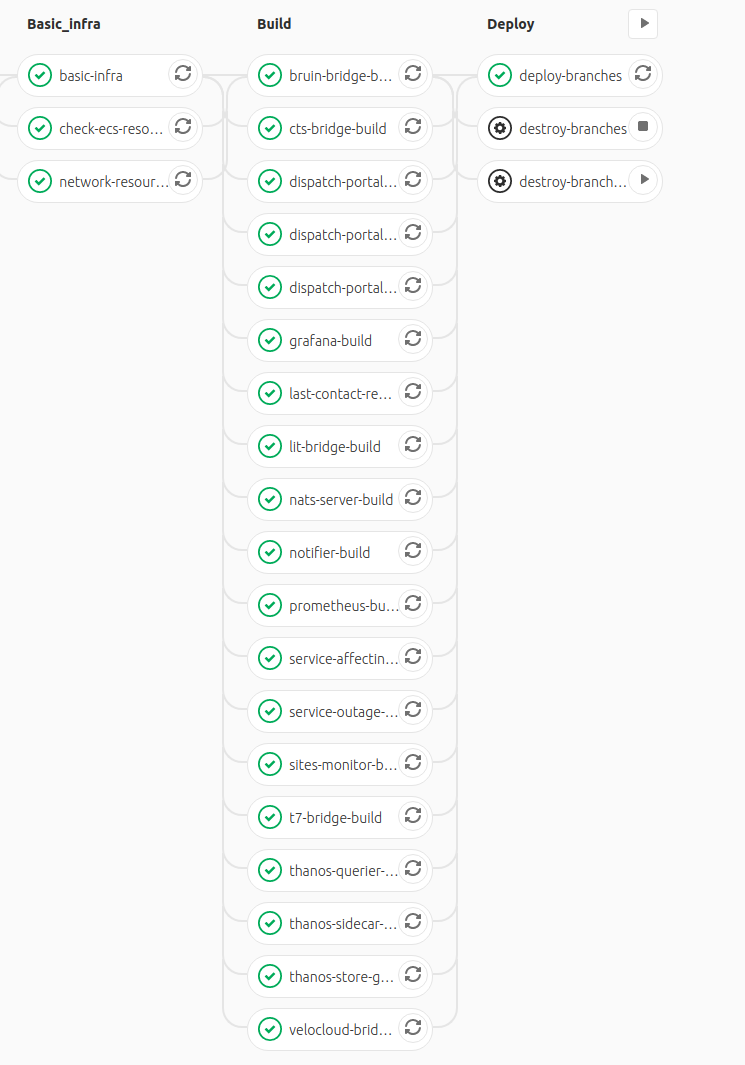
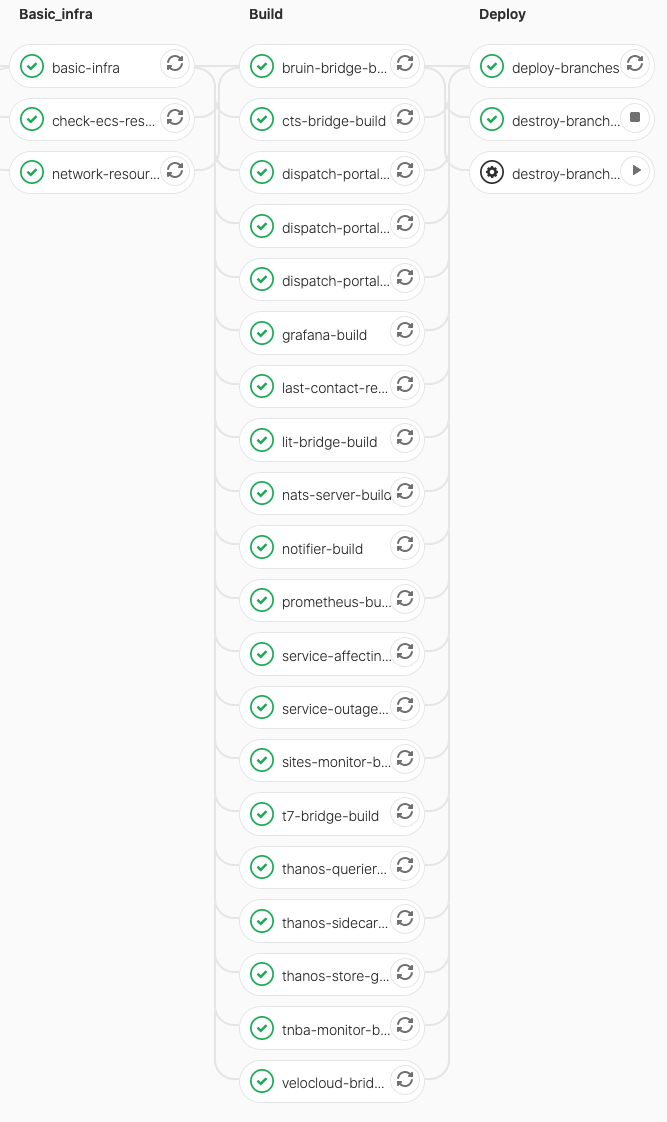
Add tnba-monitor to docs, improve docs and improve all diagrams regarding architecture

diff --git a/docs/SYSTEM_OVERVIEW.md b/docs/SYSTEM_OVERVIEW.md
@@ -32,6 +32,10 @@ There are two types of microservices showed in the diagram above depending on th
 
   * Those that take the role of replier in the context of NATS, these are the microservices that contain capabilites, being these the following ones:
 
+    * *cts-bridge*
+
+    * *lit-bridge*
+
     * *notifier*
 
     * *velocloud-bridge*
@@ -42,23 +46,34 @@ There are two types of microservices showed in the diagram above depending on th
 
   * Those that take the role of requester in the context of NATS, these are microservices that contain use cases, being these the following ones:
 
+    * *dispatch-portal-backend*
+
+    * *grafana* component, from *metrics-prometheus* microservice
+
+    * *last-contact-report*
+
     * *service-affecting-monitor*
 
     * *service-outage-monitor*
 
     * *sites-monitor*
 
-    * *last-contact-report*
+    * *tnba-monitor*
+
+> All microservices that communicate with NATS can also communicate with the Redis cluster. This is needed
+  to bypass the limit size that NATS enforces for all the messages it receives (1MB).
 
 * Microservices that doesn't communicate with NATS
 
-  * *metrics-prometheus*
+  * *dispatch-portal-frontend*
+
+  * *prometheus* and *thanos* components, from *metrics-prometheus* microservice
 
   * *Redis cluster* (Docker container in local/ElastiCache Redis Cluster in AWS)
 
 ### Connection between microservices
 
-The services that are part of the previously explained architecture are related to each other, in the following [diagram](https://www.draw.io/#G1KbDy9gSMOmwVC0fWnqmeHxupclXEfYl_) it's possible see the relationships between them.
+The services that are part of the previously explained architecture are related to each other, in the following [diagram](https://www.draw.io/#G1npbFKJq-cODHY5WddFt4aB-d3y9bv_lW) it's possible see the relationships between them.
 
 ![IMAGE: microservices_general_relationship](./img/system_overview/microservices_general_relationship.png)
 
@@ -68,7 +83,7 @@ This microservice is in charge of making requests to the bruin API, taking the r
 
 When another microservice requests bruin data, it will be in charge of making response messages to the same and never of request, that is to say, it will always be a producer within a NATS topic and never a consumer.
 
-The following [diagram](https://www.draw.io/#G1_NissfciInkExqxBCI2wTafnjyyelHhz) shows the dependencies or iteractions of this microservice with the others, being in this case none, since it is in charge of one of the isolated microservices as explained above.
+The following [diagram](https://www.draw.io/#G1hm9zTW5i2ATZGzxu6rpSlU_q58eas4Er) shows the dependencies or iteractions of this microservice with the others, being in this case none, since it is in charge of one of the isolated microservices as explained above.
 
 ![IMAGE: bruin-bridge_microservice_relationships](./img/system_overview/isolated_microservices/bruin-bridge_microservice_relationships.png)
 
@@ -78,7 +93,7 @@ This microservice is in charge of sending emails or slack notifications.
 
 It is important to point out that it is not in charge of the composition of the messages to be sent, that is to say, of their content, but only of sending them.
 
-The following [diagram](https://www.draw.io/#G1pbs-QPdcn8E0z4nteNR66TXiBQqTDwcQ) shows the dependencies or iteractions of this microservice with the others, being in this case none, since it is in charge of one of the isolated microservices as explained above.
+The following [diagram](https://www.draw.io/#G1pbs-G1PYWiomIPqlX98oyuaYGkYgR30k4rumZU) shows the dependencies or iteractions of this microservice with the others, being in this case none, since it is in charge of one of the isolated microservices as explained above.
 
 ![IMAGE: notifier_microservice_relationships](./img/system_overview/isolated_microservices/notifier_microservice_relationships.png)
 
@@ -88,7 +103,7 @@ This microservice is in charge of making requests to the velocloud API, taking t
 
 When another microservice requests velocloud data, it will be in charge of making response messages to the same and never of request, that is to say, it will always be a producer within a NATS topic and never a consumer.
 
-The following [diagram](https://www.draw.io/#G1bN_ZIbL1LDPyJ5cVKUlg4tOsEnCVqXDt) shows the dependencies or iteractions of this microservice with the others, being in this case none, since it is in charge of one of the isolated microservices as explained above.
+The following [diagram](https://www.draw.io/#G18Yl-0CTx_AZefmkxo_HN3PPq85cu3FlR) shows the dependencies or iteractions of this microservice with the others, being in this case none, since it is in charge of one of the isolated microservices as explained above.
 
 ![IMAGE: velocloud-bridge_microservice_relationships](./img/system_overview/isolated_microservices/velocloud-bridge_microservice_relationships.png)
 
@@ -102,26 +117,8 @@ The following flow is used to make this report:
 
 2. Once the events are obtained from an edge, it communicates with the *notifier* microservice to send an email with this information.
 
-It is possible to see the relations between the mentioned services for the flow in the following [diagram](https://www.draw.io/#G1JzSwJw04goDcA_fEjySmMZ_Ol32TVSeB).
+It is possible to see the relations between the mentioned services for the flow in the following [diagram](https://www.draw.io/#G1MrpWIRpw4wHeSRo6TCe6IOUZahsHoH6H).
 ![IMAGE: last-contact-report_microservice_relationships](./img/system_overview/microservices_with_communications/last-contact-report_microservice_relationships.png)
-
-#### Sites-monitor microservice
-
-This microservice requests data from the velocloud API via the velocloud-bridge microservice, using this information to enrich Prometheus. The prometheus data serves as a feed for Grafana.
-
-The following [diagram](https://www.draw.io/#G1xmdDJALLoK25VmO7-gSVITODfaTFIyT_) shows the relationship between this microservice and the others.
-
-![IMAGE: sites-monitor_microservice_relationships](./img/system_overview/microservices_with_communications/sites-monitor_microservice_relationships.png)
-
-#### T7-bridge microservice
-
-The function of this microservice is to embed in the notes of a ticket the prediction calculated by T7, this prediction will store information on the recommendations actions for the ticket.
-
-In order to carry out the mentioned actions, it communicates with the API of T7 to obtain the information about the prediction, as it can be seen in the following [diagram](https://www.draw.io/#G1uD7Otczhg_kZrgtBztJ5GvLkud0uaTNv).
-
-![IMAGE: t7-bridge_microservice_relationships](./img/system_overview/microservices_with_communications/t7-bridge_microservice_relationships.png)
-
-> **It is important to note that this microservice is not currently used.**
 
 #### Service-affecting-monitor microservice
 
@@ -131,7 +128,7 @@ In case the thresholds are exceeded, it will communicate with the notifier servi
 
 This microservice also communicates with the bruin-bridge microservice to create tickets or add notes to an existing one, including in this information about the routers for which a problem is detected.
 
-In the following [diagram](https://www.draw.io/#G1FE_V_fGLC9wSsa9wWMixDMnG_7EGGOxJ) it's possible see the relationships between this microservice and the others.
+In the following [diagram](https://www.draw.io/#G1TJksbMyHCN-wStHoQQw6wG95oKN2nbx6) it's possible see the relationships between this microservice and the others.
 
 ![IMAGE: service-affecting-monitor_microservice_relationships](./img/system_overview/microservices_with_communications/service-affecting-monitor_microservice_relationships.png)
 
@@ -143,6 +140,8 @@ This microservice orchestrates the execution of three different processes:
 
   When an outage is detected, the edge is sent to a quarantine and it is checked again 10 minutes later. If the edge remains in outage state and it
 is not under any outage ticket in Bruin then it is moved from quarantine to another queue to be reported. The report is sent via e-mail when the hour scheduled at the beginning of the process is reached.
+
+  > This feature exists in code but it is currently disabled.
 
 * Outage monitoring. This process is responsible for resolving/unresolving outage tickets depending on the state of an edge. It is triggered every 3 minutes.
 
@@ -165,8 +164,35 @@ will be taken.
     between the creation date of the last triage note and the current moment are claimed to Velocloud and then they are included in the triage notes, which are finally appended to the ticket. Note that due to Bruin limitations it is not feasible to have a triage note with 1500 characters or more;
     that is the reason why several triage notes are appended to the ticket (instead of just appending one).
 
-In the following [diagram](https://www.draw.io/#G1Da5yU-ohkQQ5eKJE1sB9URzLyXyXcZx0) it's possible see the relationship of this microservice with the others.
+In the following [diagram](https://www.draw.io/#G11LUSJtUUGETqQSEJzW7ewmJmw0HmpW5f) it's possible see the relationship of this microservice with the others.
 ![IMAGE: service-outage-monitor_microservice_relationships](./img/system_overview/microservices_with_communications/service-outage-monitor_microservice_relationships.png)
+
+#### Sites-monitor microservice
+
+This microservice requests data from the velocloud API via the velocloud-bridge microservice, using this information to enrich Prometheus. The prometheus data serves as a feed for Grafana.
+
+The following [diagram](https://www.draw.io/#G10QYwr2V_WS0kjfxdhFomYiTNSdXL9x2u) shows the relationship between this microservice and the others.
+
+![IMAGE: sites-monitor_microservice_relationships](./img/system_overview/microservices_with_communications/sites-monitor_microservice_relationships.png)
+
+#### T7-bridge microservice
+
+The function of this microservice is to embed in the notes of a ticket the prediction calculated by T7, this prediction will store information on the recommendations actions for the ticket.
+
+In order to carry out the mentioned actions, it communicates with the API of T7 to obtain the information about the prediction, as it can be seen in the following [diagram](https://www.draw.io/#G162Jq0mZDiHHVsIgQts0TUnNizTER4cT0).
+
+![IMAGE: t7-bridge_microservice_relationships](./img/system_overview/isolated_microservices/t7-bridge_microservice_relationships.png)
+
+#### TNBA-monitor microservice
+
+This microservice is in charge of appending notes to Bruin tickets indicating what is *T*he *N*ext *B*est *A*ction a member of the support team of
+Bruin can take to move forward on the resolution of the ticket.
+
+It mostly communicates with `bruin-bridge` and `t7-bridge` to embed predictions into tickets, but it also communicates with other capabilities as shown in the following [diagram](https://www.draw.io/#G1uD7Otczhg_kZrgtBztJ5GvLkud0uaTNv).
+
+The following [diagram](https://www.draw.io/#G1Yu4rtLV6WvOWr7FxE1l-sclOL4SA5r2z) shows the relationship between this microservice and the others.
+
+![IMAGE: sites-monitor_microservice_relationships](./img/system_overview/microservices_with_communications/tnba-monitor_microservice_relationships.png)
 
 ## Infrastructure
 

diff --git a/docs/PIPELINES.md b/docs/PIPELINES.md
@@ -95,6 +95,8 @@ In these jobs services in the monorepo will be deployed to the selected environm
 
     * [t7-bridge](../t7-bridge)
 
+    * [tnba-monitor](../tnba-monitor)
+
     * [velocloud-bridge](../velocloud-bridge)
 
   * A [Task Definition](https://docs.aws.amazon.com/AmazonECS/latest/developerguide/example_task_definitions.html) for each of the above *ECS Services*
@@ -152,6 +154,7 @@ Also, resources of type [null_resource](https://www.terraform.io/docs/providers/
 	- `service-outage-monitor-4`
 	- `service-outage-monitor-triage`
 	- `sites-monitor`
+	- `tnba-monitor`
 
    This is achieved by defining explicit dependencies between the ECS services for the capabilities microservices and the set of null resources that perform the healthcheck of the capabilities microservices.
 
